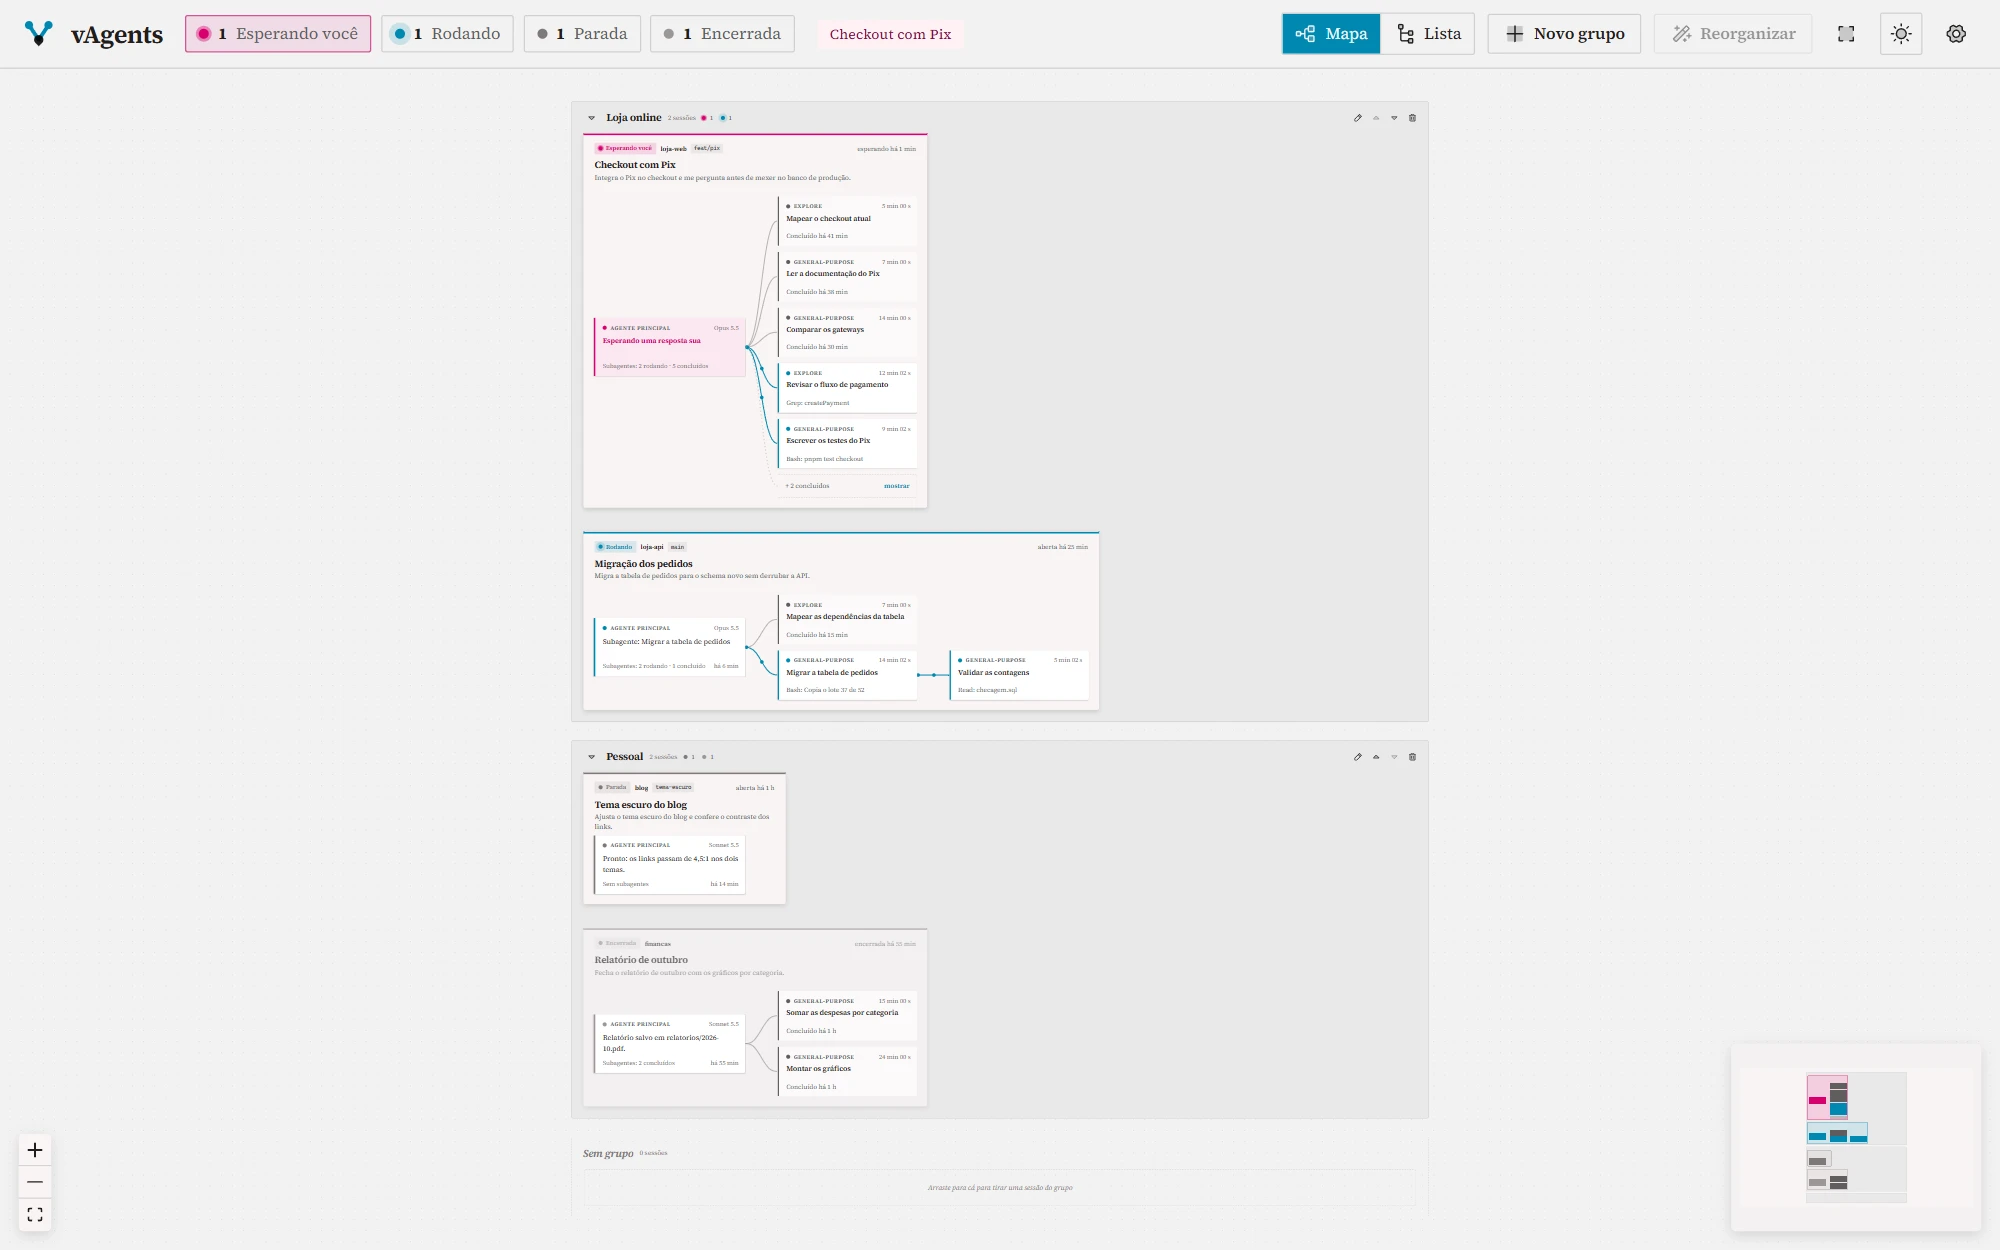
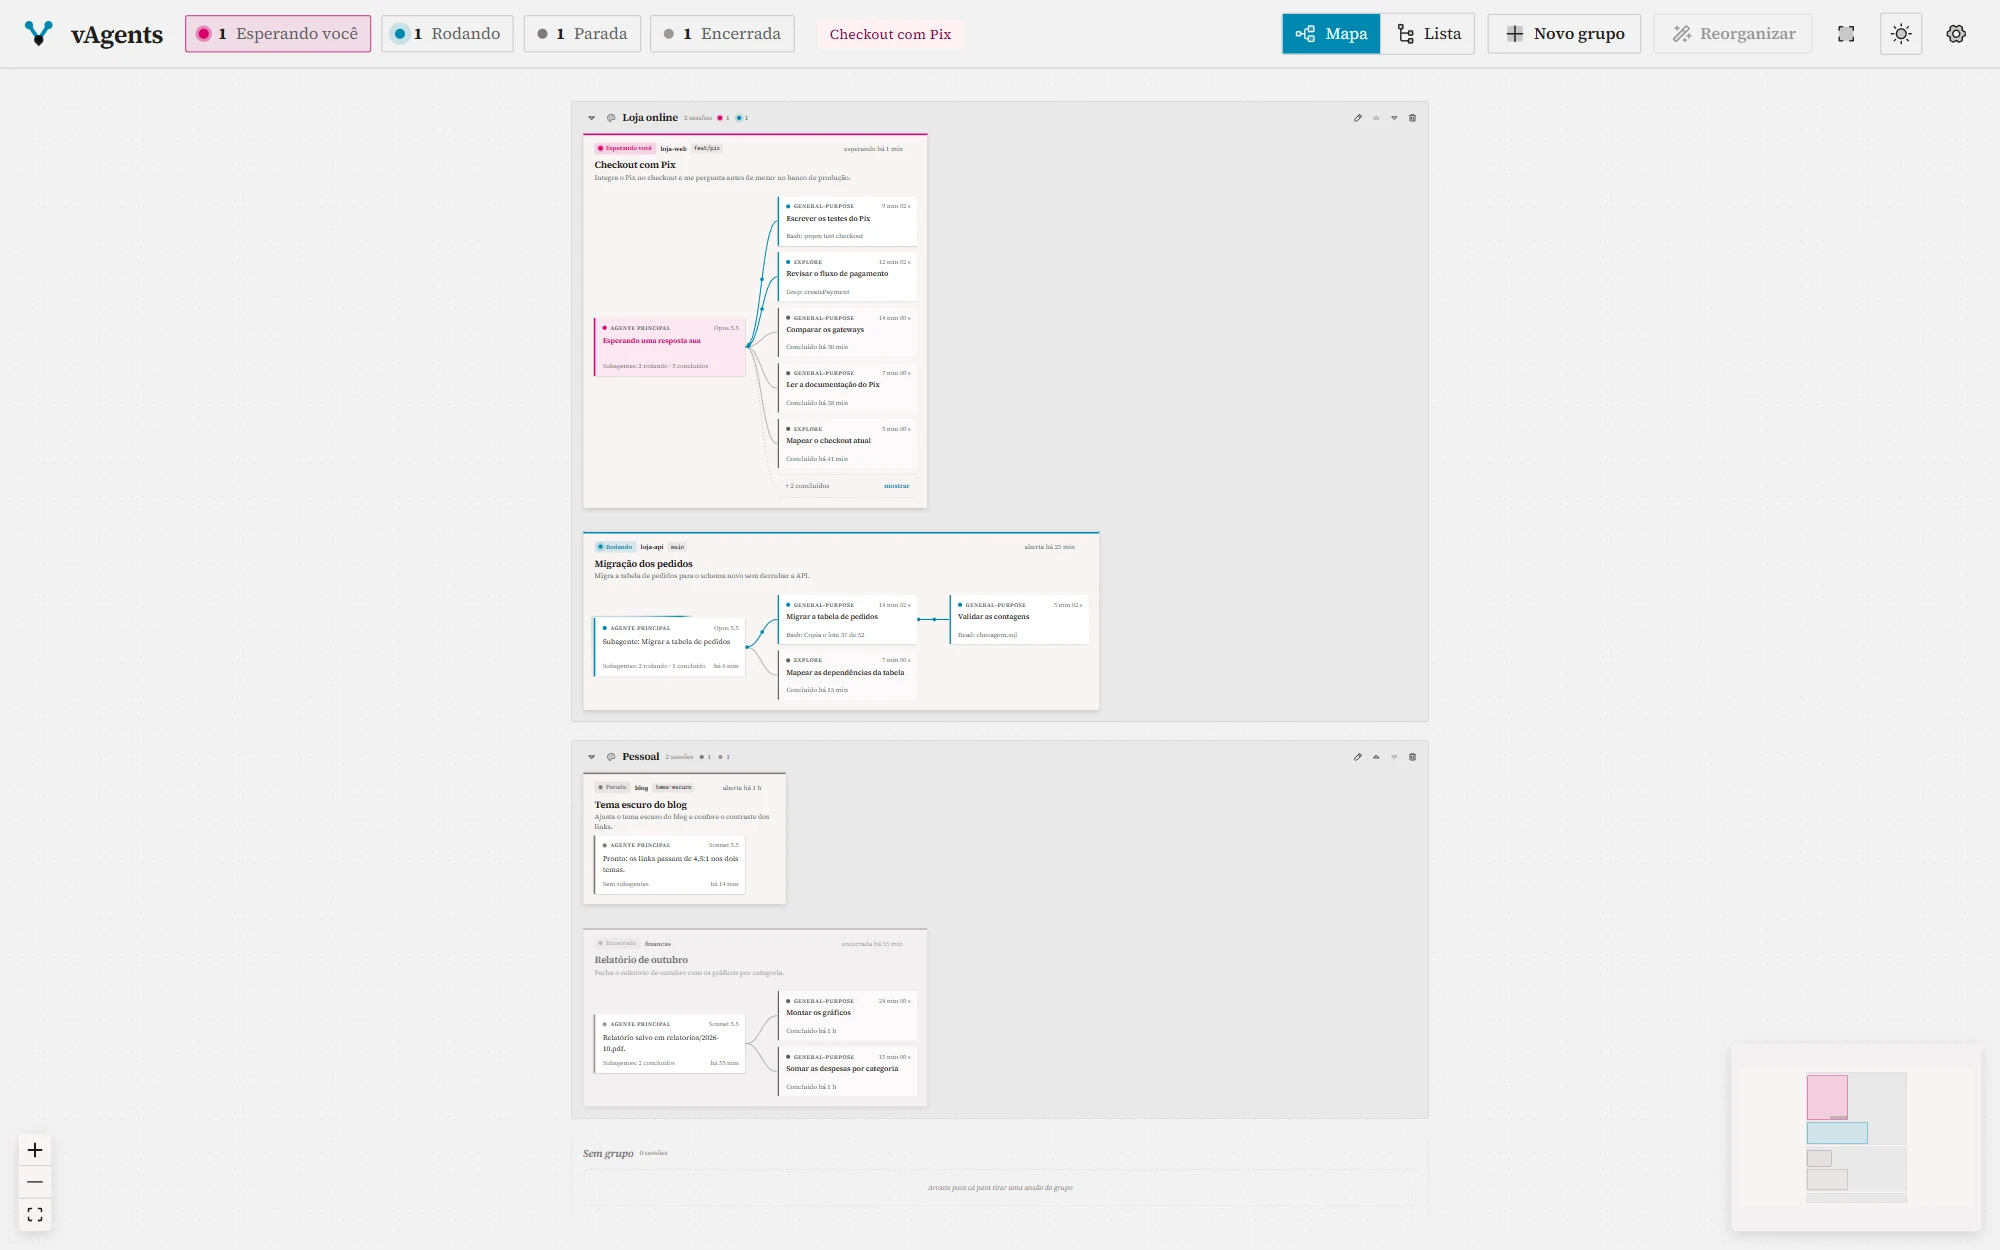
feat: 0.1.1, os subagentes mais recentes em cima e a luz no agente principal
- Entre os subagentes de um mesmo pai, os que estão rodando vêm primeiro (o que começou por último em
  cima), depois os que terminaram, do mais recente ao mais antigo; os mais antigos continuam no "+N".
  Vale no mapa e na lista.
- O agente principal rodando ganha uma luz que dá a volta no card dele, como os pontos que correm nas
  ligações dos subagentes; com os efeitos de animação do Windows desligados, um contorno parado.
- Sem cor escolhida, o botão de cor do grupo e do card mostra o ícone da paleta, em vez do quadrado
  tracejado.
- Versão 0.1.1, CHANGELOG, notas da versão e as imagens do README refeitas.

diff --git a/src/styles/index.css b/src/styles/index.css
@@ -841,6 +841,39 @@ body,
 .agente-principal.is-waiting {
   background: color-mix(in srgb, var(--color-magenta) 9%, var(--cartao));
 }
+/* O agente principal rodando: uma luz dá a volta no card, como o pulso que corre nas ligações dos
+   subagentes. É um anel fino fora do card (o ::after, posicionado pelo nó do React Flow), com um trecho
+   de luz que gira; a máscara deixa só o anel, sem cobrir o conteúdo. */
+@property --volta {
+  syntax: '<angle>';
+  inherits: false;
+  initial-value: 0deg;
+}
+.agente-principal.is-running::after {
+  content: '';
+  position: absolute;
+  inset: -5px;
+  padding: 3px;
+  border-radius: calc(var(--radius-md) + 5px);
+  background: conic-gradient(
+    from var(--volta),
+    transparent 0 58%,
+    color-mix(in srgb, var(--c-rodando) 30%, transparent) 76%,
+    var(--c-rodando) 95%,
+    transparent 100%
+  );
+  mask:
+    linear-gradient(#000 0 0) content-box,
+    linear-gradient(#000 0 0);
+  mask-composite: exclude;
+  animation: volta 2.2s linear infinite;
+  pointer-events: none;
+}
+@keyframes volta {
+  to {
+    --volta: 360deg;
+  }
+}
 
 .agente-topo {
   display: flex;
@@ -967,14 +1000,15 @@ body,
 
 /* ---------- A cor dos grupos e dos cards ---------- */
 
-/* O quadradinho que mostra a cor e abre o seletor: cheio com a cor escolhida, ou tracejado (a de sempre). */
+/* O botão que mostra a cor e abre o seletor: o quadradinho cheio com a cor escolhida, ou o ícone da
+   paleta, na cor dos outros ícones, enquanto a cor é a de sempre. */
 .cor-botao {
   flex: none;
   width: 20px;
   height: 20px;
   padding: 0;
+  border: 0;
   border-radius: var(--radius-md);
-  border: 1.5px dashed var(--color-neutro-500);
   background: transparent;
   cursor: pointer;
 }
@@ -982,9 +1016,22 @@ body,
   border: 1px solid color-mix(in oklab, var(--cor) 65%, var(--color-texto));
   background: var(--cor);
 }
-.cor-botao:hover {
+.cor-botao.tem-cor:hover {
   outline: 2px solid color-mix(in srgb, var(--color-texto) 22%, transparent);
   outline-offset: 1px;
+}
+.cor-botao.is-padrao {
+  display: inline-grid;
+  place-items: center;
+  color: var(--color-neutro-700);
+}
+.cor-botao.is-padrao > svg {
+  width: 100%;
+  height: 100%;
+}
+.cor-botao.is-padrao:hover {
+  color: var(--color-texto);
+  background: color-mix(in srgb, var(--color-texto) 8%, transparent);
 }
 .cor-botao:focus-visible {
   outline: 2px solid var(--color-ciano);
@@ -1003,8 +1050,8 @@ body,
 }
 /* Na lista, antes do nome: à mostra se o card tem cor; senão, só com o mouse na linha. */
 .cor-botao-linha {
-  width: 13px;
-  height: 13px;
+  width: 15px;
+  height: 15px;
   align-self: center;
 }
 .cor-botao-linha.is-padrao {
@@ -1017,6 +1064,11 @@ body,
 .cor-botao-grande {
   width: 28px;
   height: 28px;
+}
+/* No painel, a paleta fica dentro de um quadro, como os outros botões dele. */
+.cor-botao-grande.is-padrao {
+  padding: 4px;
+  border: 1px solid var(--color-divisor);
 }
 
 /* O seletor ("quadro cromático"): solto na tela, no tamanho de sempre, mesmo com o mapa afastado. */
@@ -1652,6 +1704,11 @@ body,
   .react-flow__edge-path {
     animation: none !important;
     transition: none !important;
+  }
+  /* Sem a luz girando: o anel inteiro, parado. */
+  .agente-principal.is-running::after {
+    animation: none;
+    background: color-mix(in srgb, var(--c-rodando) 55%, transparent);
   }
 }
 

diff --git a/test/lista.test.ts b/test/lista.test.ts
@@ -70,12 +70,13 @@ describe('a lista', () => {
       ...Array.from({ length: 6 }, (_, i) => agente(`d${i}`, 'done', i)),
     ]
     const s = montarLista(retrato([sessao('a', 'running', agentes)]), opcoes).secoes[0]!.sessoes[0]!
-    expect(ids(s.agentes)).toEqual(['r', 'd3', 'd4', 'd5', '+3'])
+    // O que roda em cima; depois os concluídos, do mais recente ao mais antigo.
+    expect(ids(s.agentes)).toEqual(['r', 'd5', 'd4', 'd3', '+3'])
     const r = s.agentes[0]
     expect(r?.tipo === 'agente' && ids(r.filhos)).toEqual(['neto'])
 
     const aberta = montarLista(retrato([sessao('a', 'running', agentes)]), { ...opcoes, abertos: new Set(['a|main']) })
-    expect(ids(aberta.secoes[0]!.sessoes[0]!.agentes)).toEqual(['r', 'd0', 'd1', 'd2', 'd3', 'd4', 'd5', '+3'])
+    expect(ids(aberta.secoes[0]!.sessoes[0]!.agentes)).toEqual(['r', 'd5', 'd4', 'd3', 'd2', 'd1', 'd0', '+3'])
   })
 
   it('"Recolher tudo" pega as sessões com agentes e os agentes com filhos', () => {
@@ -100,16 +101,16 @@ describe('as dobras da lista', () => {
   }
   const visiveis = (l: ReturnType<typeof lista>, d: Dobras) => l.secoes.flatMap((s) => linhasDaSecao(s, d).map((x) => x.id))
 
-  it('tudo aberto: a sessão, o pai, o neto (recuado) e o irmão', () => {
+  it('tudo aberto: a sessão, o irmão que começou por último, o pai e o neto (recuado)', () => {
     const l = lista()
     const linhas = linhasDaSecao(l.secoes[0]!, TUDO_ABERTO)
     expect(linhas.map((x) => [x.id, x.nivel])).toEqual([
       ['s:a', 0],
+      ['a:a:solto', 1],
       ['a:a:r', 1],
       ['a:a:neto', 2],
-      ['a:a:solto', 1],
     ])
-    expect(linhas[2]?.pai).toBe('a:a:r')
+    expect(linhas[3]?.pai).toBe('a:a:r')
     // O clique numa linha acha o que abrir no painel.
     expect(l.lookup.get('a:a:neto')?.agent?.id).toBe('neto')
     expect(l.lookup.get('m:a')?.session.key).toBe('a')
@@ -117,7 +118,7 @@ describe('as dobras da lista', () => {
 
   it('recolher um item esconde só o que está dentro dele', () => {
     const l = lista()
-    expect(visiveis(l, alternarDobra(TUDO_ABERTO, 'a:a:r'))).toEqual(['s:a', 'a:a:r', 'a:a:solto', 's:b'])
+    expect(visiveis(l, alternarDobra(TUDO_ABERTO, 'a:a:r'))).toEqual(['s:a', 'a:a:solto', 'a:a:r', 's:b'])
     expect(visiveis(l, alternarDobra(TUDO_ABERTO, 's:a'))).toEqual(['s:a', 's:b'])
   })
 

diff --git a/test/layout.test.ts b/test/layout.test.ts
@@ -1,6 +1,6 @@
 import { describe, expect, it } from 'vitest'
 import type { AgentView, SessionView, Snapshot } from '../shared/model.ts'
-import { SEM_GRUPO, SIZE, areaNoPonto, buildGraph, collapse, perColumn, roundedPath } from '../src/layout.ts'
+import { SEM_GRUPO, SIZE, areaNoPonto, buildGraph, collapse, perColumn, porRecencia, roundedPath } from '../src/layout.ts'
 import { VAZIA, alternarRecolhido, criarGrupo, moverSessao } from '../src/lib/organizacao.ts'
 
 const agent = (id: string, status: AgentView['status'], updatedAt: number, parentId: string | null = null): AgentView => ({
@@ -31,11 +31,24 @@ const snap = (sessions: SessionView[]): Snapshot => ({ generatedAt: 1_000_000, c
 const opts = { expanded: new Set<string>(), endedWindowMs: 3_600_000, selectedId: null }
 
 describe('collapse', () => {
-  it('mostra os que rodam e os 3 concluídos mais recentes; o resto vai para o "+N"', () => {
+  it('mostra os que rodam e os 3 concluídos mais recentes (os mais recentes em cima); o resto vai para o "+N"', () => {
     const list = [agent('r1', 'running', 50), ...Array.from({ length: 6 }, (_, i) => agent(`d${i}`, 'done', i))]
     const { shown, hidden } = collapse(list, false)
-    expect(shown.map((a) => a.id)).toEqual(['r1', 'd3', 'd4', 'd5'])
+    expect(shown.map((a) => a.id)).toEqual(['r1', 'd5', 'd4', 'd3'])
     expect(hidden.map((a) => a.id).sort()).toEqual(['d0', 'd1', 'd2'])
+    // Aberto, mostra todos, na mesma ordem.
+    expect(collapse(list, true).shown.map((a) => a.id)).toEqual(['r1', 'd5', 'd4', 'd3', 'd2', 'd1', 'd0'])
+  })
+
+  it('os que rodam vêm primeiro (o que começou por último em cima), depois os que terminaram por último', () => {
+    const lista = [
+      { ...agent('velho', 'running', 90), startedAt: 10 },
+      { ...agent('acabou-agora', 'done', 100), startedAt: 5 },
+      { ...agent('novo', 'running', 80), startedAt: 60 },
+      { ...agent('interrompido', 'interrupted', 95), startedAt: 20 },
+      { ...agent('antigo', 'done', 30), startedAt: 1 },
+    ]
+    expect(porRecencia(lista).map((a) => a.id)).toEqual(['novo', 'velho', 'acabou-agora', 'interrompido', 'antigo'])
   })
 
   it('não cria um "+1"', () => {

diff --git a/src/layout.ts b/src/layout.ts
@@ -146,10 +146,25 @@ export const mainNodeId = (key: string) => `m:${key}`
 export const agentNodeId = (key: string, id: string) => `a:${key}:${id}`
 const moreNodeId = (groupKey: string) => `x:${groupKey}`
 
-/** O que fica à mostra entre os filhos de um mesmo pai, e o que vai para o "+N". */
+/**
+ * Os filhos de um mesmo pai, do mais recente ao mais antigo: os que estão rodando primeiro (o que
+ * começou por último em cima), depois os que terminaram, do que terminou por último ao mais antigo.
+ */
+export function porRecencia(list: AgentView[]): AgentView[] {
+  const rodando = (a: AgentView) => a.status === 'running'
+  return [...list].sort((a, b) => {
+    if (rodando(a) !== rodando(b)) return rodando(a) ? -1 : 1
+    const quando = (x: AgentView) => (rodando(x) ? (x.startedAt ?? x.updatedAt) : x.updatedAt)
+    return quando(b) - quando(a) || (a.id < b.id ? -1 : a.id > b.id ? 1 : 0)
+  })
+}
+
+/** O que fica à mostra entre os filhos de um mesmo pai (em ordem de recência), e o que vai para o "+N". */
 export function collapse(list: AgentView[], expanded: boolean): { shown: AgentView[]; hidden: AgentView[] } {
-  if (expanded) return { shown: list, hidden: [] }
-  const rest = list.filter((a) => a.status !== 'running').sort((a, b) => b.updatedAt - a.updatedAt)
+  const ordem = porRecencia(list)
+  if (expanded) return { shown: ordem, hidden: [] }
+  const rodando = ordem.filter((a) => a.status === 'running')
+  const rest = ordem.filter((a) => a.status !== 'running')
   let keep = rest.slice(0, SIZE.recentDone)
   let hidden = rest.slice(SIZE.recentDone)
   if (hidden.length === 1) {
@@ -157,8 +172,7 @@ export function collapse(list: AgentView[], expanded: boolean): { shown: AgentVi
     keep = rest
     hidden = []
   }
-  const shownIds = new Set(keep.map((a) => a.id))
-  return { shown: list.filter((a) => a.status === 'running' || shownIds.has(a.id)), hidden }
+  return { shown: [...rodando, ...keep], hidden }
 }
 
 export function countAgents(agents: AgentView[]): Counts {

diff --git a/src/nodes.tsx b/src/nodes.tsx
@@ -1,5 +1,5 @@
 import { Handle, Position, type NodeProps, type NodeTypes } from '@xyflow/react'
-import { CaretDown, CaretRight, CaretUp, Check, PencilSimple, Trash, X } from '@phosphor-icons/react'
+import { CaretDown, CaretRight, CaretUp, Check, Palette, PencilSimple, Trash, X } from '@phosphor-icons/react'
 import { createContext, memo, useContext, useEffect, useRef, useState, type CSSProperties, type PointerEvent as ReactPointerEvent } from 'react'
 import type { SessionView } from '../shared/model.ts'
 import { NowContext } from './hooks.ts'
@@ -36,9 +36,10 @@ export function cls(...parts: (string | false | undefined | null)[]): string {
 }
 
 /**
- * O quadradinho da cor de um grupo ou de um card: cheio com a cor escolhida, ou tracejado (a de sempre).
- * O clique abre o seletor e não chega ao que está embaixo (não arrasta o card nem abre o painel); o
- * mouse não tira o foco de onde ele está (o nome do grupo que você está digitando, por exemplo).
+ * O botão da cor de um grupo ou de um card: o quadradinho cheio com a cor escolhida, ou o ícone da paleta
+ * (a de sempre, sem cor escolhida). O clique abre o seletor e não chega ao que está embaixo (não arrasta
+ * o card nem abre o painel); o mouse não tira o foco de onde ele está (o nome do grupo que você está
+ * digitando, por exemplo).
  */
 export function BotaoDeCor({
   cor,
@@ -65,7 +66,9 @@ export function BotaoDeCor({
         e.stopPropagation()
         aoClicar(e.currentTarget, e.detail === 0)
       }}
-    />
+    >
+      {!cor && <Palette aria-hidden />}
+    </button>
   )
 }
 

diff --git a/README.md b/README.md
@@ -87,7 +87,7 @@ e quem precisa de você agora.
    dos subagentes dela, e a barra de cima conta quantas estão rodando, esperando você, paradas ou
    encerradas. Prefere uma lista? Clique em **Lista**, no alto.
 2. **Organize.** Arraste uma sessão pelo cabeçalho até o aviso "solte aqui para criar um grupo com ela"
-   e dê um nome ao grupo (o quadradinho ao lado do nome escolhe a cor dele). As próximas você arrasta
+   e dê um nome ao grupo (a paleta ao lado do nome escolhe a cor dele). As próximas você arrasta
    para dentro dele, e cada card fica onde você o soltar.
 3. **Clique numa sessão** para ver tudo dela no painel ao lado.
 4. **Feche a janela.** O vAgents fica na bandeja e avisa, com um popup no canto da tela, quando alguma
@@ -100,8 +100,10 @@ e quem precisa de você agora.
 Cada sessão é uma caixa com o **tema** (o título que o Claude dá a ela, ou o nome que você der), a
 **descrição** (o seu último pedido) e o **estado**. Dentro, a árvore: do agente principal saem os
 subagentes, e deles os que eles criaram, cada um com o tipo, o tempo e o passo atual
-(`Bash: pnpm test`, `Read: checkout.ts`). As ligações dos que estão rodando ganham pontos correndo; a
-sessão que espera por você pulsa em magenta.
+(`Bash: pnpm test`, `Read: checkout.ts`). Os que estão rodando ficam em cima; depois vêm os que
+terminaram, do mais recente ao mais antigo. As ligações dos que estão rodando ganham pontos correndo,
+o card do agente principal, enquanto ele roda, ganha uma luz que dá a volta nele, e a sessão que
+espera por você pulsa em magenta.
 
 ![Uma sessão esperando resposta, com três subagentes concluídos e dois rodando, as ligações animadas](docs/arvore.webp)
 
@@ -157,12 +159,13 @@ numa sessão vale mais que a regra.
 
 ### Cores
 
-Por padrão, tudo fica com as cores de sempre; a cor é só se você quiser. O quadradinho ao lado do nome
-do grupo abre o seletor de cor: escolha qualquer cor na área de cor e na faixa de matiz, numa das
-cores prontas, ou digite o hex. O quadro do grupo fica com um tom dela, e a borda também. Cada card
-pode ter a sua cor do mesmo jeito: o botão aparece no canto do card quando o mouse passa por ele (e
-também no painel da sessão, e antes do nome, na lista). A faixa no alto do card continua mostrando o
-estado da sessão. **Usar o padrão** volta à cor de sempre.
+Por padrão, tudo fica com as cores de sempre; a cor é só se você quiser. A paleta ao lado do nome do
+grupo abre o seletor de cor: escolha qualquer cor na área de cor e na faixa de matiz, numa das cores
+prontas, ou digite o hex. O quadro do grupo fica com um tom dela, e a borda também; a paleta vira um
+quadradinho com a cor escolhida. Cada card pode ter a sua cor do mesmo jeito: a paleta aparece no
+canto do card quando o mouse passa por ele (e também no painel da sessão, e antes do nome, na lista).
+A faixa no alto do card continua mostrando o estado da sessão. **Usar o padrão** volta à cor de
+sempre.
 
 ![O seletor de cor do grupo "Loja online": arrastar na área de cor pinta o grupo na hora; depois, o card "Checkout com Pix" fica azul pelo hex](docs/cores.webp)
 
@@ -346,7 +349,7 @@ Suba a versão em `package.json`, `src-tauri/Cargo.toml` e `src-tauri/tauri.conf
 [CHANGELOG](CHANGELOG.md), gere o instalador com `pnpm app:build` e anexe-o a uma Release do GitHub:
 
 ```sh
-gh release create v0.1.0 src-tauri/target/release/bundle/nsis/vAgents_0.1.0_x64-setup.exe --title "vAgents 0.1.0" --notes-file docs/release-0.1.0.md
+gh release create v0.1.1 src-tauri/target/release/bundle/nsis/vAgents_0.1.1_x64-setup.exe --title "vAgents 0.1.1" --notes-file docs/release-0.1.1.md
 ```
 
 O botão "Baixar para Windows" aponta para a Release mais recente.

diff --git a/docs/release-0.1.1.md b/docs/release-0.1.1.md
@@ -1,0 +1,13 @@
+Os subagentes mais recentes em cima, uma luz no agente principal enquanto ele roda e a paleta no botão de cor.
+
+![O vAgents com sessões de exemplo](https://raw.githubusercontent.com/viniventur/vagents/main/docs/tela-escuro.webp)
+
+**O que mudou desde a 0.1.0**
+
+- **Os mais recentes em cima:** entre os subagentes de um mesmo pai, os que estão rodando vêm primeiro, depois os que terminaram, do mais recente ao mais antigo; os mais antigos continuam dobrados no "+N". Vale no mapa e na lista.
+- **O agente principal rodando:** uma luz dá a volta no card dele, como os pontos que correm nas ligações dos subagentes. Com os "Efeitos de animação" do Windows desligados, vira um contorno parado.
+- **A paleta:** sem cor escolhida, o botão de cor do grupo e do card mostra o ícone da paleta (antes, um quadrado tracejado que não dizia para que servia).
+
+**Instalar:** baixe o `vAgents_0.1.1_x64-setup.exe` abaixo e abra. Ele instala só para você, sem pedir administrador. Se a 0.1.0 já estiver instalada, instale por cima: os seus grupos, nomes e cores ficam. O instalador ainda não tem assinatura de código: se o Windows avisar, clique em **Mais informações → Executar assim mesmo**.
+
+**Precisa de:** Windows 10 ou 11 (64 bits) e o Claude Code 2.1 ou mais novo (testado no 2.1.319).

diff --git a/CHANGELOG.md b/CHANGELOG.md
@@ -1,5 +1,14 @@
 # Mudanças
 
+## 0.1.1 — 2026-11-09
+
+- **Os mais recentes em cima:** entre os subagentes de um mesmo pai, os que estão rodando vêm
+  primeiro, depois os que terminaram, do mais recente ao mais antigo (no mapa e na lista).
+- **O agente principal rodando:** uma luz dá a volta no card dele, como os pontos que correm nas
+  ligações dos subagentes.
+- **A paleta:** sem cor escolhida, o botão de cor do grupo e do card mostra o ícone da paleta (antes,
+  um quadrado tracejado que não dizia para que servia).
+
 ## 0.1.0 — 2026-11-09
 
 A primeira versão.
